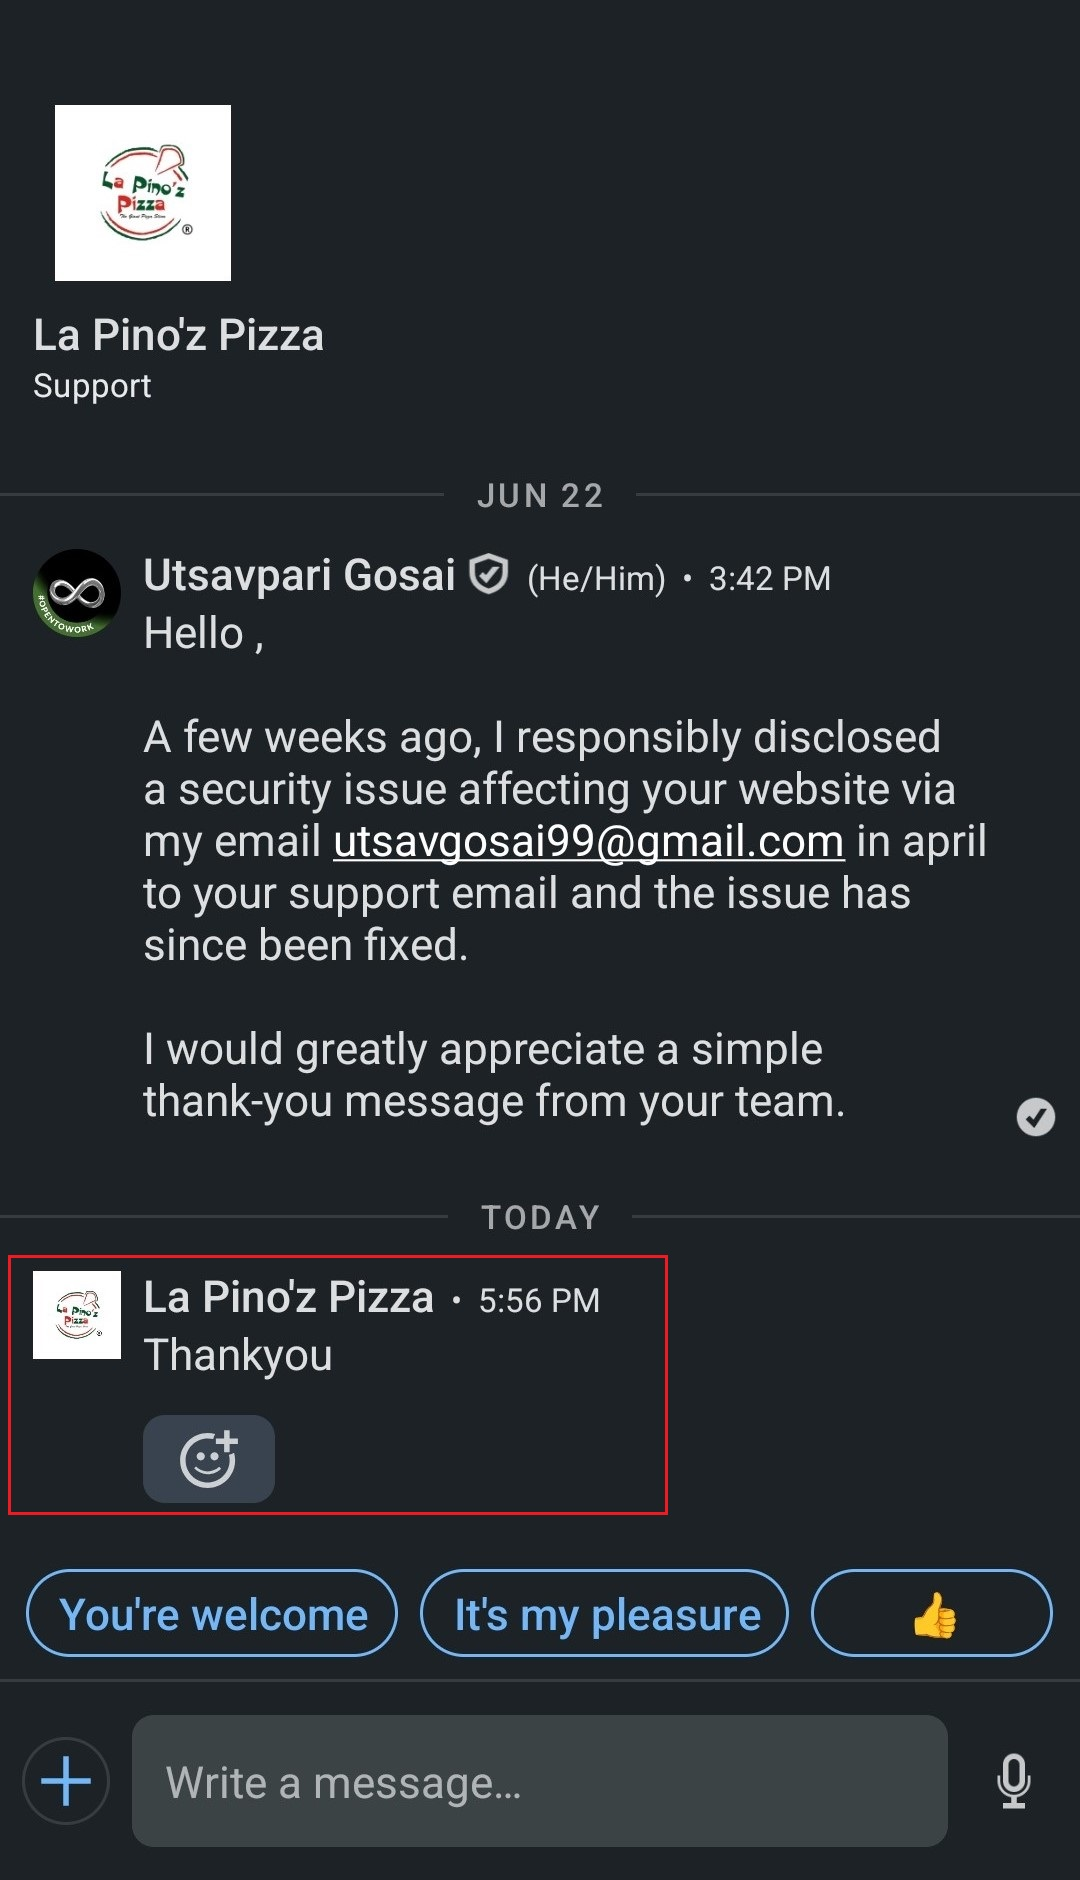
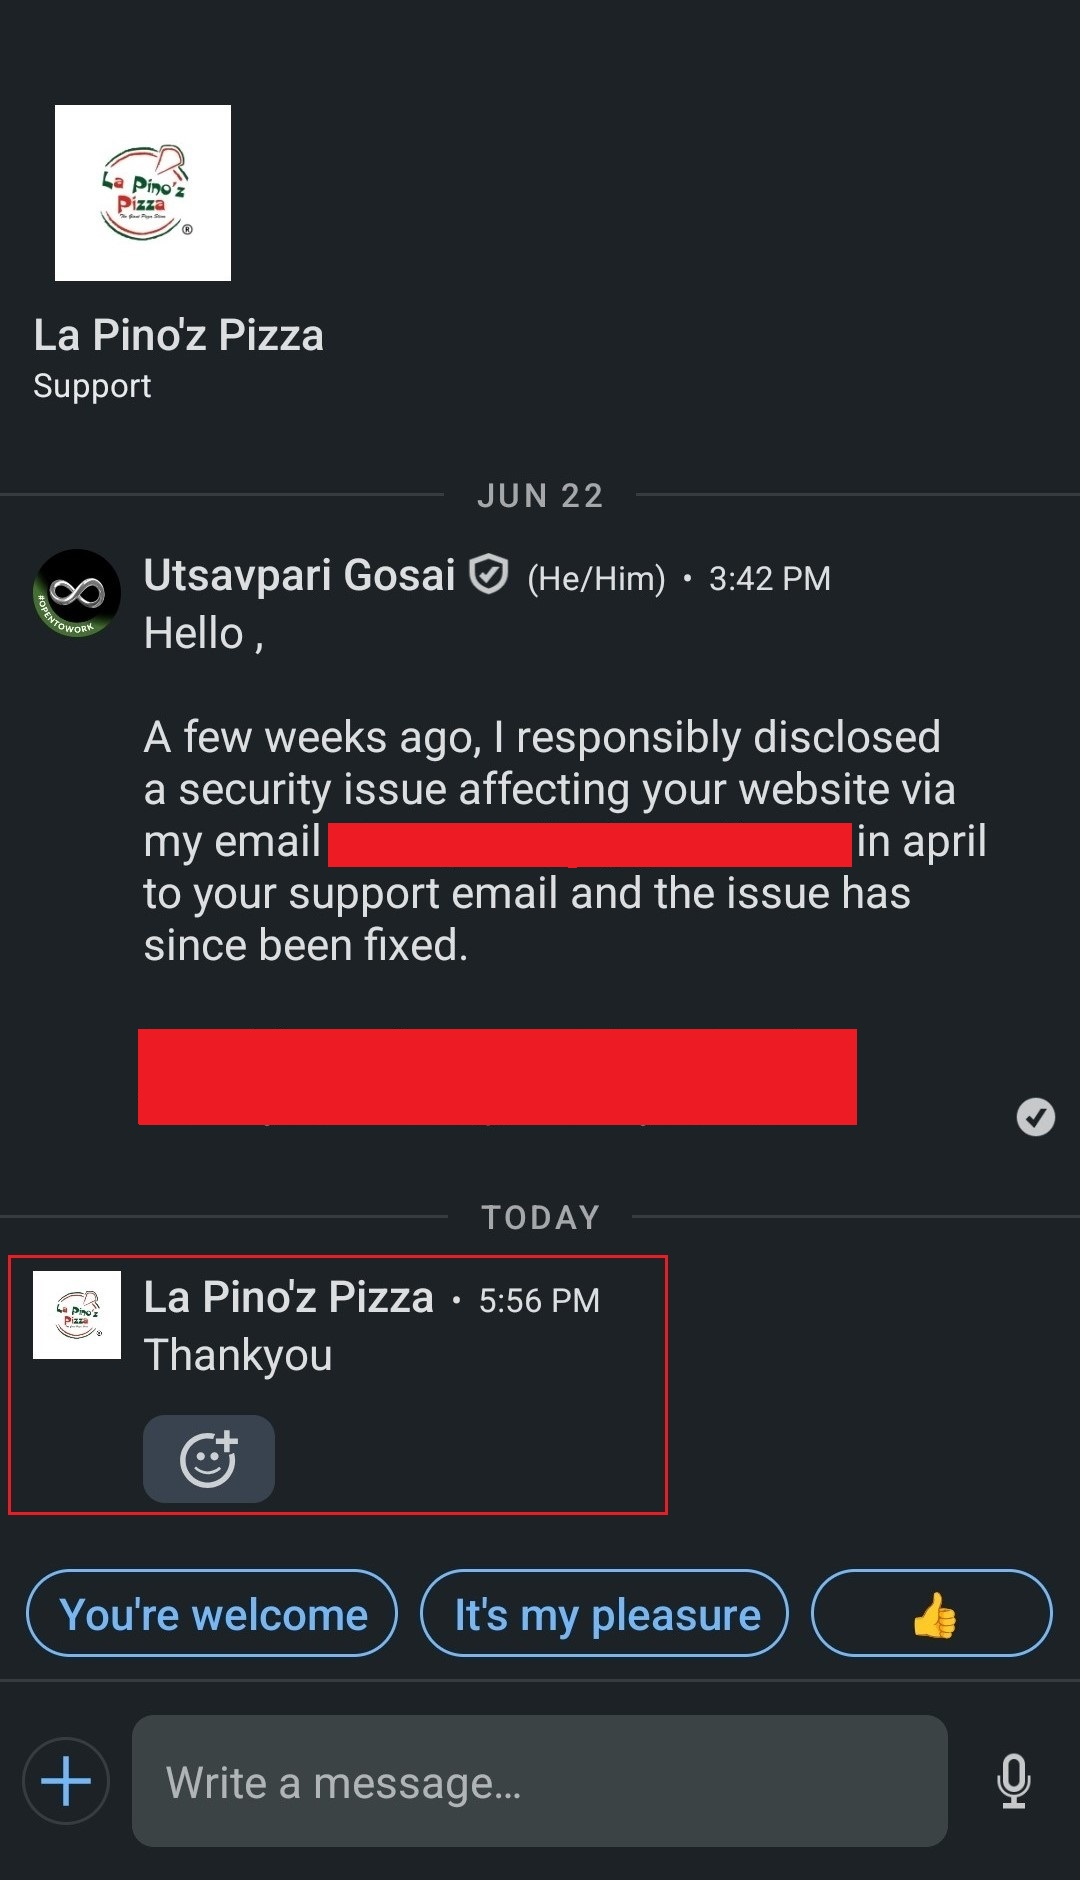
Updates

Changed region(s): [[0.1222, 0.5245, 0.7944, 0.617], [0.3056, 0.4319, 0.7944, 0.4628]]

diff --git a/articles/index-61.html b/articles/index-61.html
@@ -96,10 +96,10 @@
                 <p>So, let's get started with today's story.</p>
 
                 <h3>🚀 From a Small Village Dream to National Recognition</h3>
-                <p>This is the story of a <strong>17-year-old boy</strong> who heard the term <strong>"Ethical
+                <p>This is the story of a <strong>17 year old boy</strong> who heard the term <strong>"Ethical
                         Hacking"</strong> for the very first time. Out of curiosity, he started exploring
                     cybersecurity without ever imagining that one day his journey would lead him to be featured in
-                    one of India's most respected English newspapers.</p>
+                    one of India's most respected English newspapers <strong>at the age of 23 Years</strong></p>
 
                 <p>That boy is <strong>me.</strong> ❤</p>
 
@@ -149,18 +149,11 @@
                 </div>
 
                 <h3>🤝 How It Happened</h3>
-                <p>I connected with <strong>Nishchal Sachdev</strong> on LinkedIn. He regularly publishes insightful
-                    articles on <strong>Artificial Intelligence</strong> and <strong>Cybersecurity</strong> in
-                    <strong>The Pioneer</strong>, Hindustan Times, Mid-Day, The Economic Times, Business Standard, The
-                    Hindu and several other newspapers and very good and humble person
-                </p>
 
-                <p>During our conversation, I shared my journey and achievements in <strong>Bug Hunting</strong> and
+
+                <p>If you've been following me, you already know about my journey and achievements in <strong>Bug Hunting</strong> and
                     <strong>Application Security</strong>, many of which I earned after my first Gujarati newspaper
-                    feature.
-                </p>
-
-                <p>If you've been following me, you already know about my journey and the recognition I've received,
+                    feature the recognition I've received,
                     including:</p>
 
                 <ul>
@@ -204,14 +197,14 @@
 
                 <p>...and many more. 🚀</p>
 
-                <p>After learning about my work and achievements, he appreciated my dedication and decided to feature
+                <p>After learning about my work and achievements, <strong>The Pioneer</strong> appreciated my dedication and decided to feature
                     my name in one of his cybersecurity articles in <strong>The Pioneer's National Edition</strong>.
                 </p>
 
                 <p>Since <strong>The Pioneer</strong> is also read internationally because it is published in
                     English, this recognition feels not only national but also global. 🌍📰</p>
 
-                <p>A huge thank you to also <strong>Nishchal Sachdev</strong> for recognizing my work and giving me this
+                <p>A huge thank you to <strong>The Pioneer</strong> for recognizing my work and giving me this
                     incredible opportunity.</p>
 
                 <h3>💙 From Curiosity to Recognition</h3>
@@ -232,7 +225,7 @@
                         during my hardest times, and never stopped motivating me.</li>
                 </ul>
 
-                <p><strong>This achievement is especially dedicated to you, Keshav. Thank you for always standing
+                <p><strong>This achievement is especially dedicated to you, K3$#!V@ 🧿 Thank you for always standing
                         beside me.</strong> ❤</p>
 
                 <p>And finally, thank you to every single one of you who follows my journey, supports my work, reads
